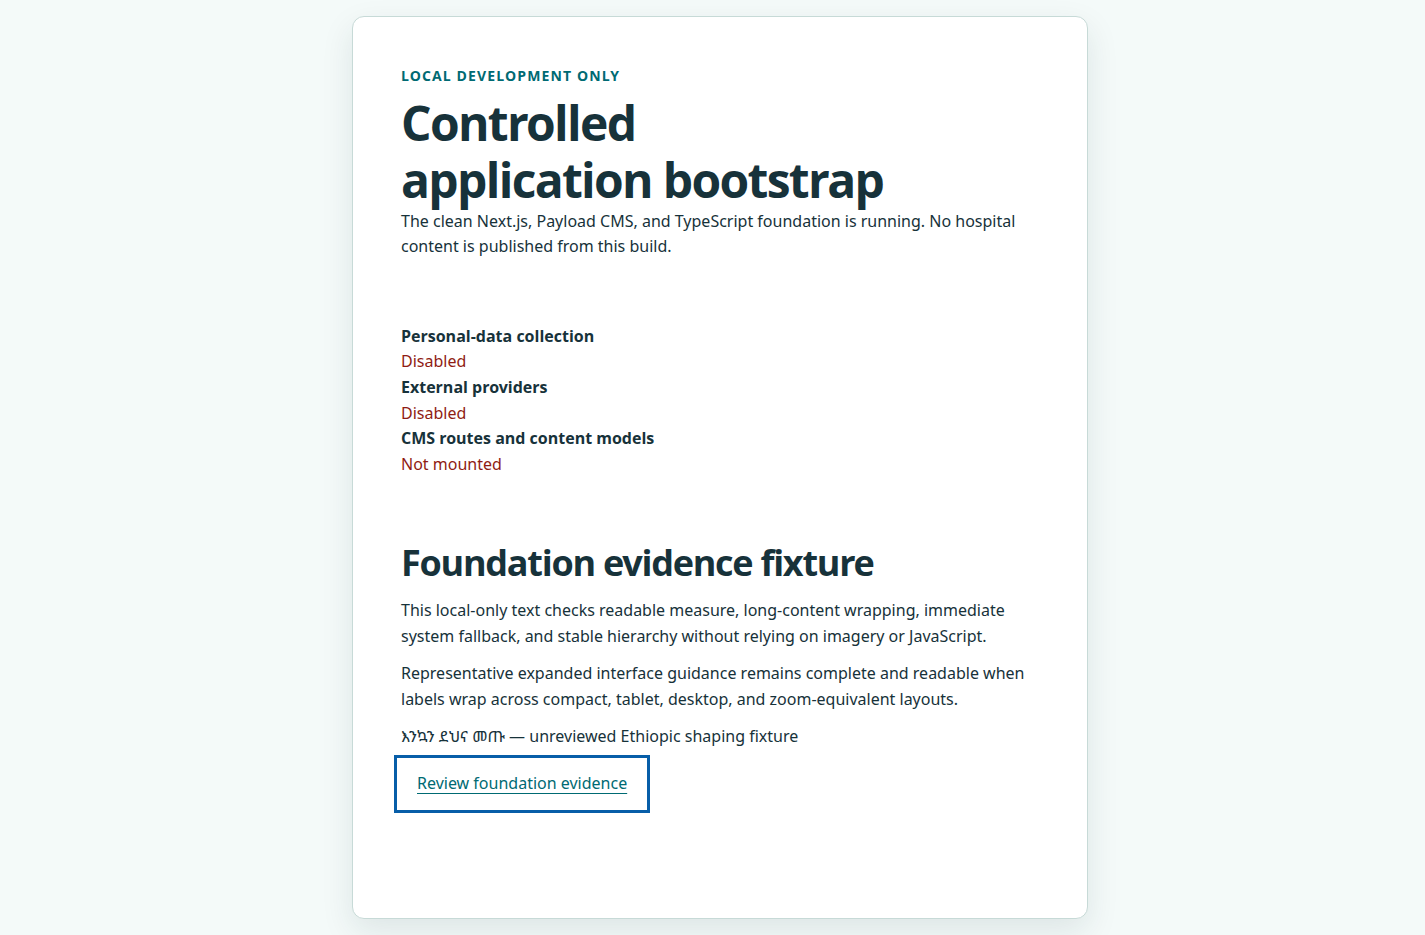
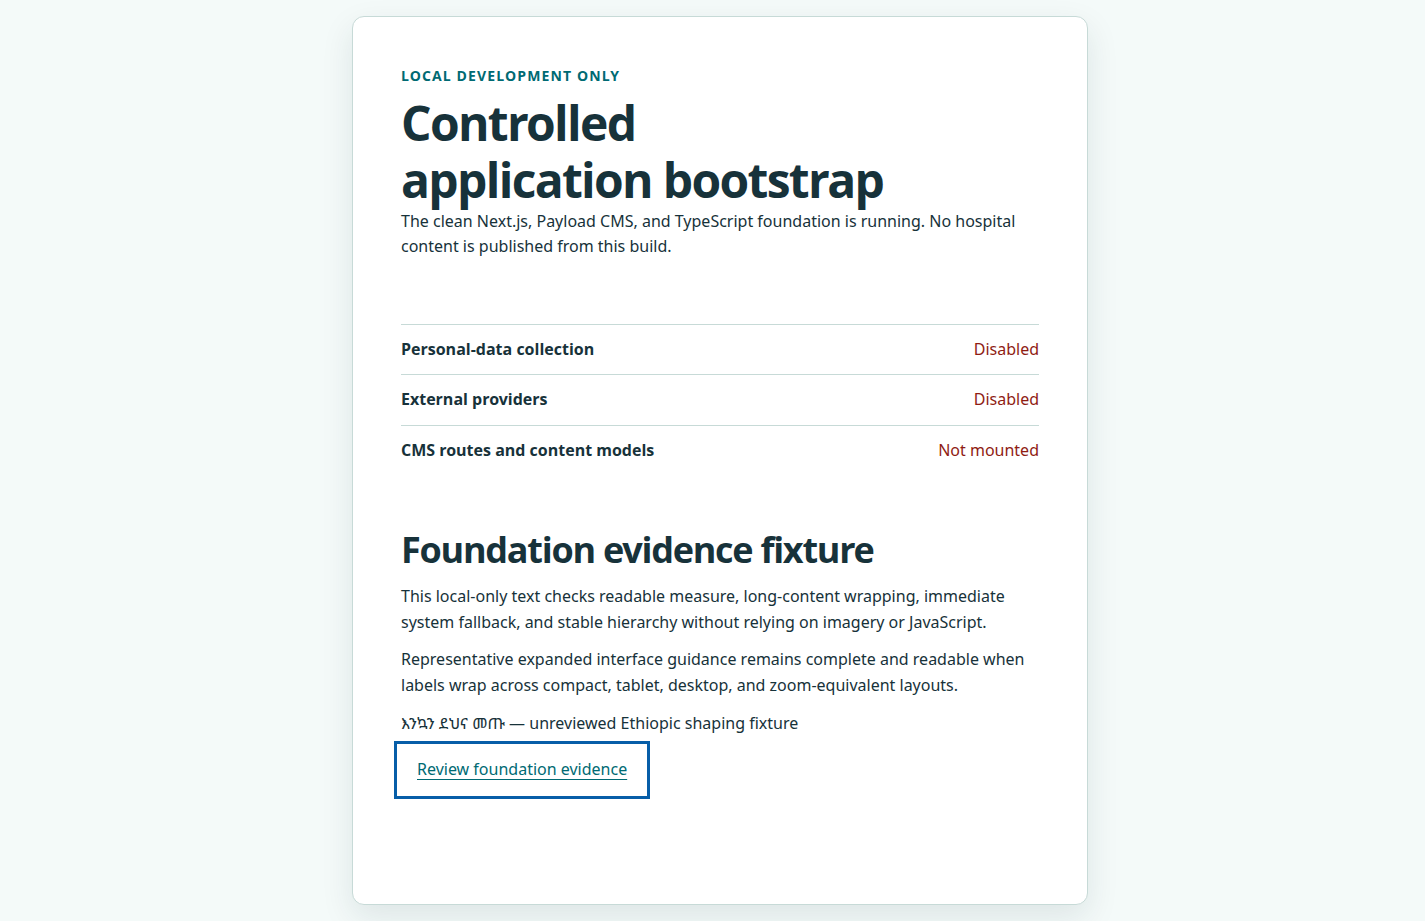
fix: prevent enlarged status summary overflow

diff --git a/apps/web/src/design-system/templates/controlled-bootstrap-template.module.css b/apps/web/src/design-system/templates/controlled-bootstrap-template.module.css
@@ -39,17 +39,29 @@
 }
 
 .statusSummary {
-  display: grid;
-  gap: var(--component-bootstrap-status-gap);
   margin: var(--component-bootstrap-status-margin-top) 0 0;
+  min-width: 0;
 }
 
-.statusSummary > div {
+.statusSummary > dl {
+  display: grid;
+  gap: var(--component-bootstrap-status-gap);
+  margin: 0;
+  min-width: 0;
+}
+
+.statusSummary > dl > div {
   border-top: var(--component-bootstrap-status-border-width) solid
     var(--component-bootstrap-status-border-color);
   display: grid;
   gap: var(--component-bootstrap-status-item-gap);
+  min-width: 0;
   padding-top: var(--component-bootstrap-status-item-padding-top);
+}
+
+.statusSummary :where(dt, dd) {
+  min-width: 0;
+  overflow-wrap: anywhere;
 }
 
 .statusSummary dt {
@@ -62,7 +74,7 @@
 }
 
 @media (min-width: 40rem) {
-  .statusSummary > div {
+  .statusSummary > dl > div {
     grid-template-columns: minmax(0, 1fr) auto;
   }
 }
